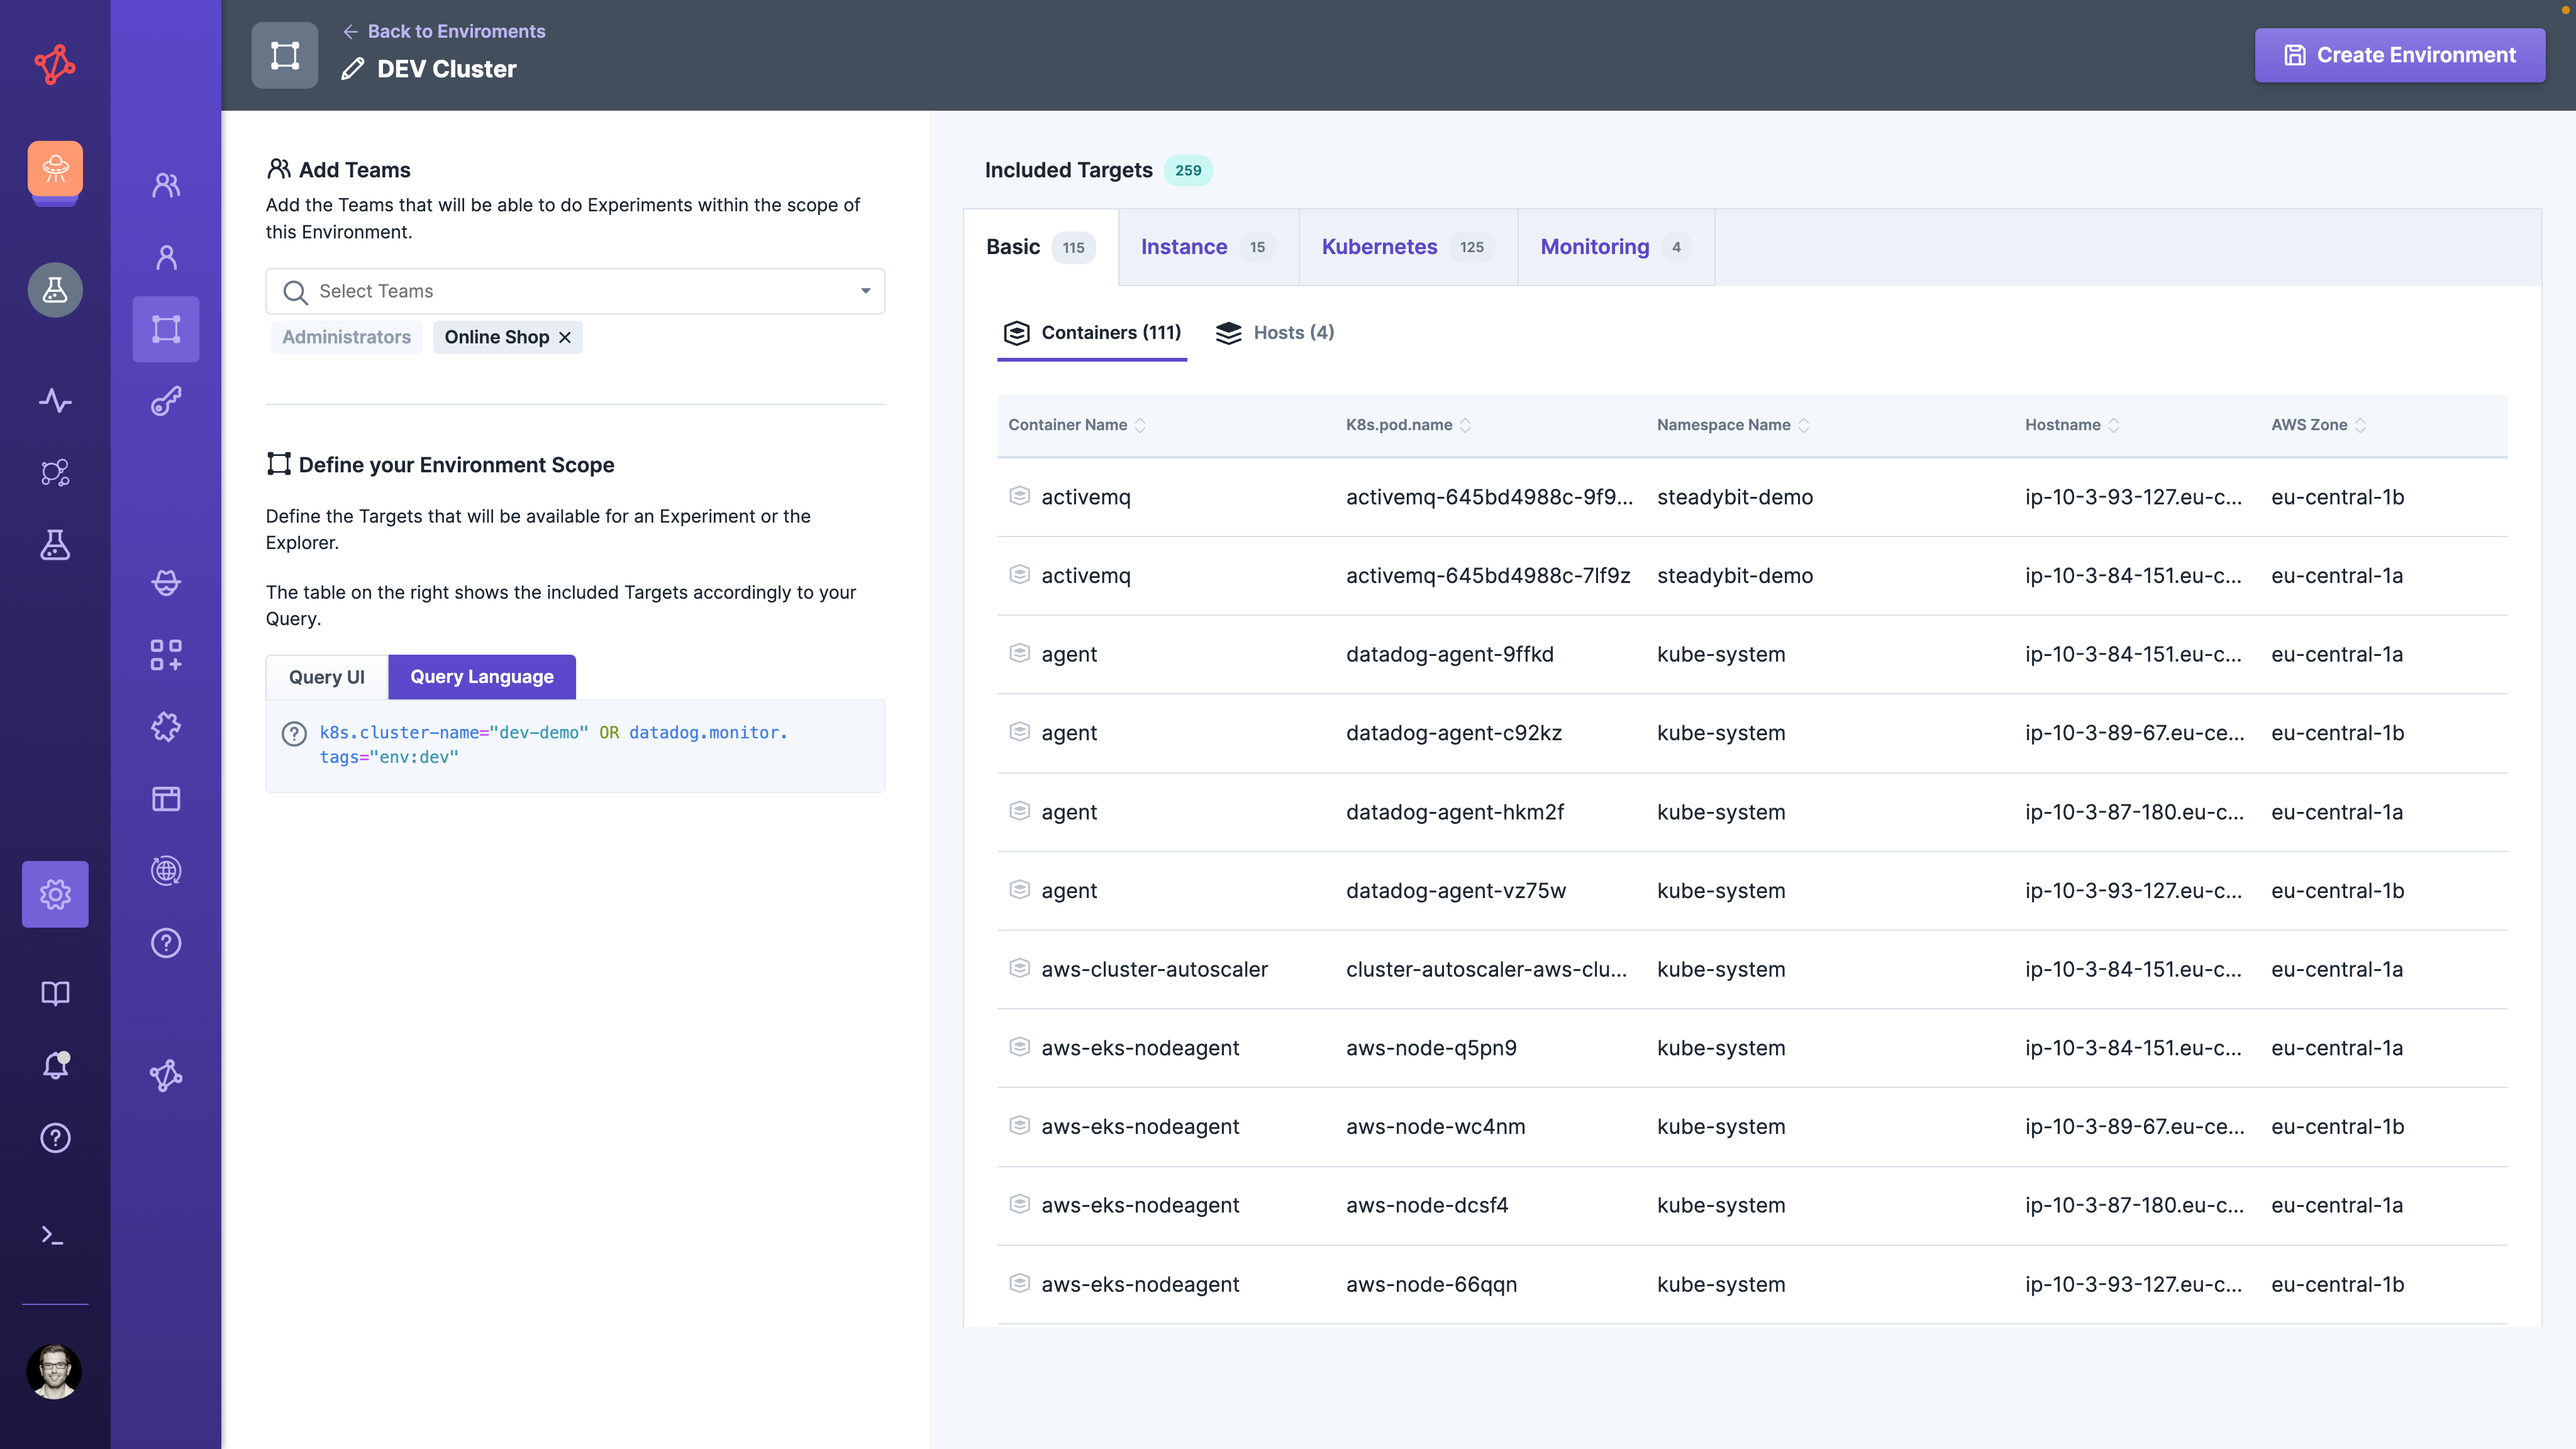
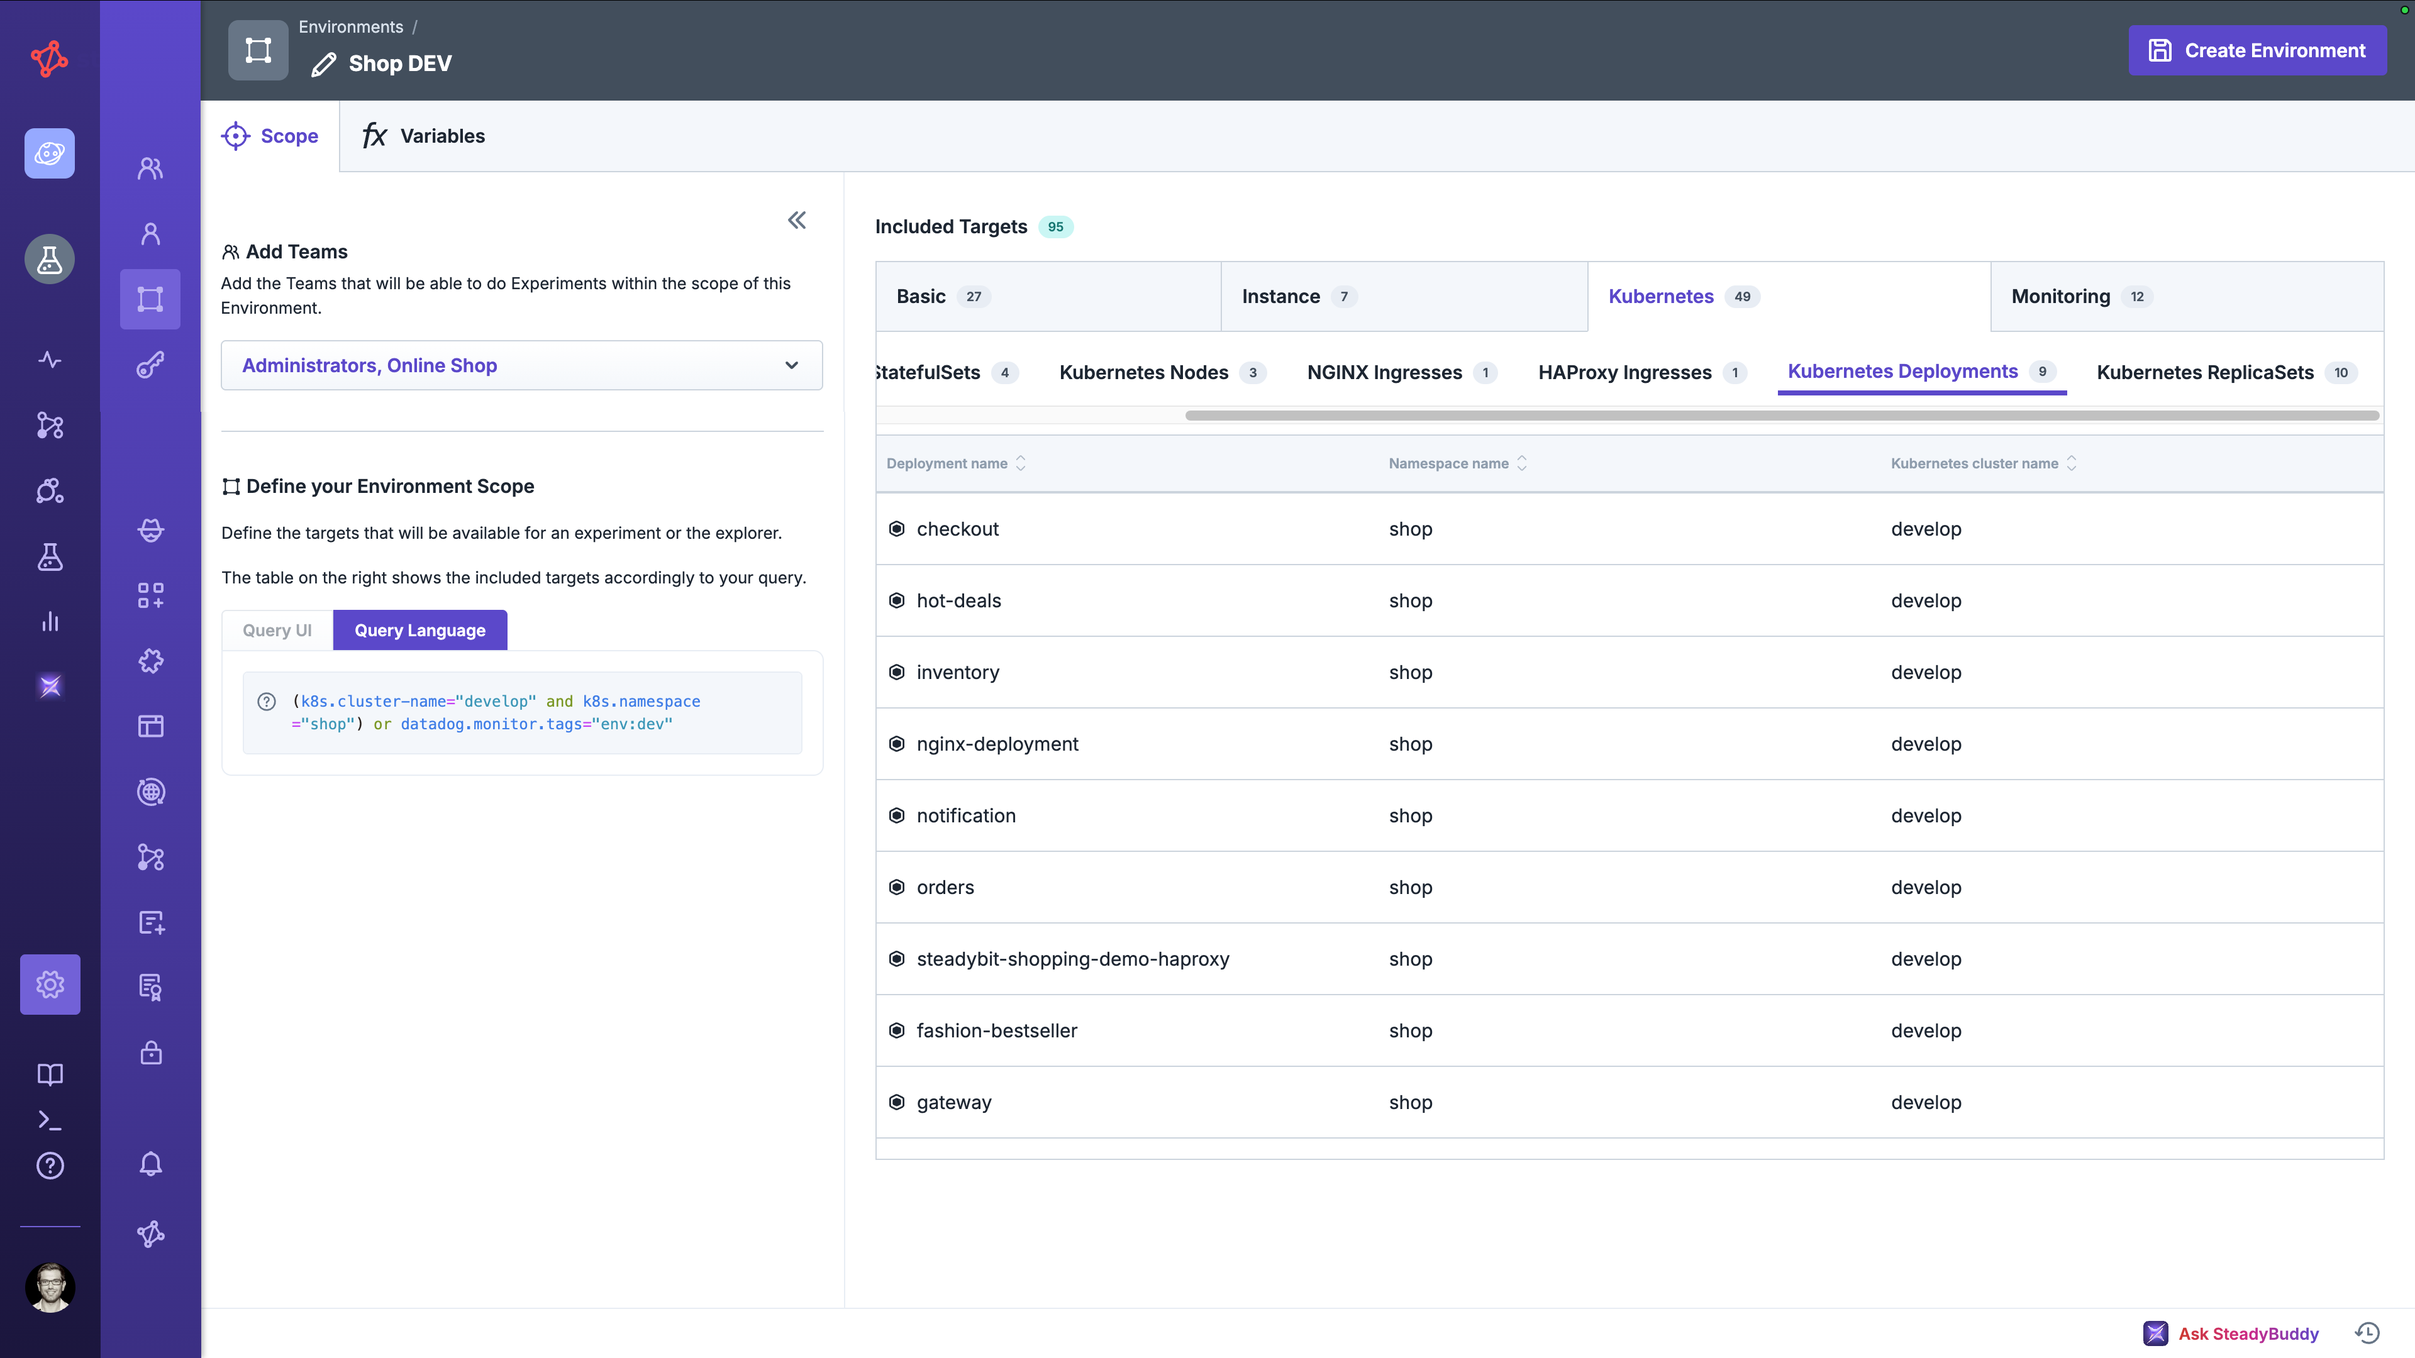
docs: replace the environment editor screenshots
- `new_environment.png` now shows the editor with its Scope / Variables tabs.
- `variable-environment.png` shows the Variables tab instead of the removed
  standalone variables page. Taken while creating an environment, it also
  illustrates the new "Edit Environment Variables" section, which now uses it.
- Removed `use-steadybit/experiments/variable-environment.png`, an unreferenced
  copy of the old screenshot.

diff --git a/install-and-configure/manage-environments/README.md b/install-and-configure/manage-environments/README.md
@@ -35,7 +35,6 @@ For the full syntax, see the [Query Language documentation](../../concepts/query
 
 Finally, don't forget to assign the environment to a team and give it a meaningful name. That's it, you are ready to use that environment in an experiment!
 
-<!-- TODO: replace with a screenshot of the new environment editor, Scope tab open (tabs Scope / Variables visible) -->
 ![Create a new environment](../../.gitbook/assets/new_environment.png)
 
 #### Example Scopes
@@ -103,4 +102,4 @@ Administrators edit an environment's variables in the **Variables** tab of the e
 
 Members of a team the environment is assigned to can edit its variables too, without an administrator — for example, to keep a shared URL up to date. In the environments list, they open an environment's variables via the `fx` icon or the environment's name, and save their changes with **Save Variables**. They can't change the environment's scope or teams.
 
-<!-- TODO: add a screenshot of the Variables tab in the environment editor -->
+![Environment variables in the Variables tab of the environment editor](../../.gitbook/assets/variable-environment.png)

diff --git a/use-steadybit/experiments/variables.md b/use-steadybit/experiments/variables.md
@@ -35,7 +35,6 @@ A variable only needs to be defined in one scope to be usable. You can, for inst
 
 Some values are associated with an experiment's environment and change whenever you use another environment in an experiment. Also, once you change the variable's value, all experiments using the same environment will also use the new value. Environment-scoped variables are the perfect place to name, e.g., common infrastructure components. You manage environment-scoped variables under Settings → Environments, in the environment's **Variables** tab — see [Edit Environment Variables](../../install-and-configure/manage-environments/README.md#edit-environment-variables). Admins can edit all environment variables; users can edit the variables of environments their team can access, via the `fx` icon in the environments list. Changes apply once you save them.
 
-<!-- TODO: replace with a screenshot of the Variables tab in the environment editor; this one shows the removed standalone page -->
 ![Variables scoped to an environment](../../.gitbook/assets/variable-environment.png)
 
 ### Service
